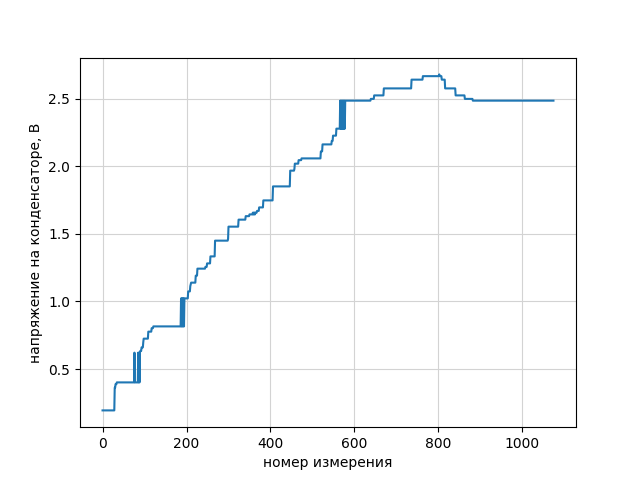
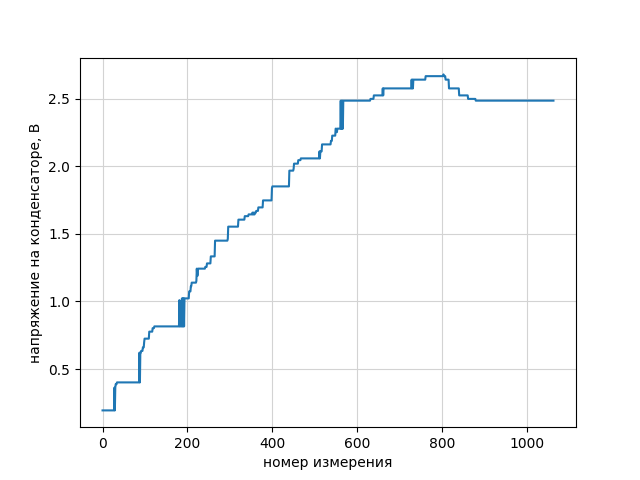
measure task

diff --git a/7-1-measure.py b/7-1-measure.py
@@ -36,11 +36,12 @@ def decimal2volts(d):
 def adc_volts():
     return decimal2volts(adc())
 
-vmax = 207
+vmax = 224
 
 data = []
 
 try:
+    # Ход эксперимента
     t = time.time()
     GPIO.output(troyka, GPIO.HIGH)
     down = False
@@ -54,6 +55,8 @@ try:
         volts = decimal2volts(value)
         data.append(volts)
         print('{:.3f}V'.format(volts))
+        
+    # Определение и вывод параметров
     T = time.time() - t
     dt = T / len(data)
     f = 1 / dt
@@ -63,14 +66,16 @@ try:
     print('частота дискретизации:', f, 'Гц')
     print('шаг квантования:', dv, 'В')
     
+    # Запись данных в файлы
     with open('data.txt', 'w') as f:
         for v in data:
             f.write(str(v) + '\n')
             
     with open('settings.txt', 'w') as f:
-        f.write('dt=' + str(dt) + '\n')
+        f.write('f=' + str(f) + '\n')
         f.write('dv=' + str(dv) + '\n')
     
+    # Построение графика
     plt.grid(color='lightgray', zorder=1)
     plt.plot(data, zorder=2)
     plt.xlabel('номер измерения')
